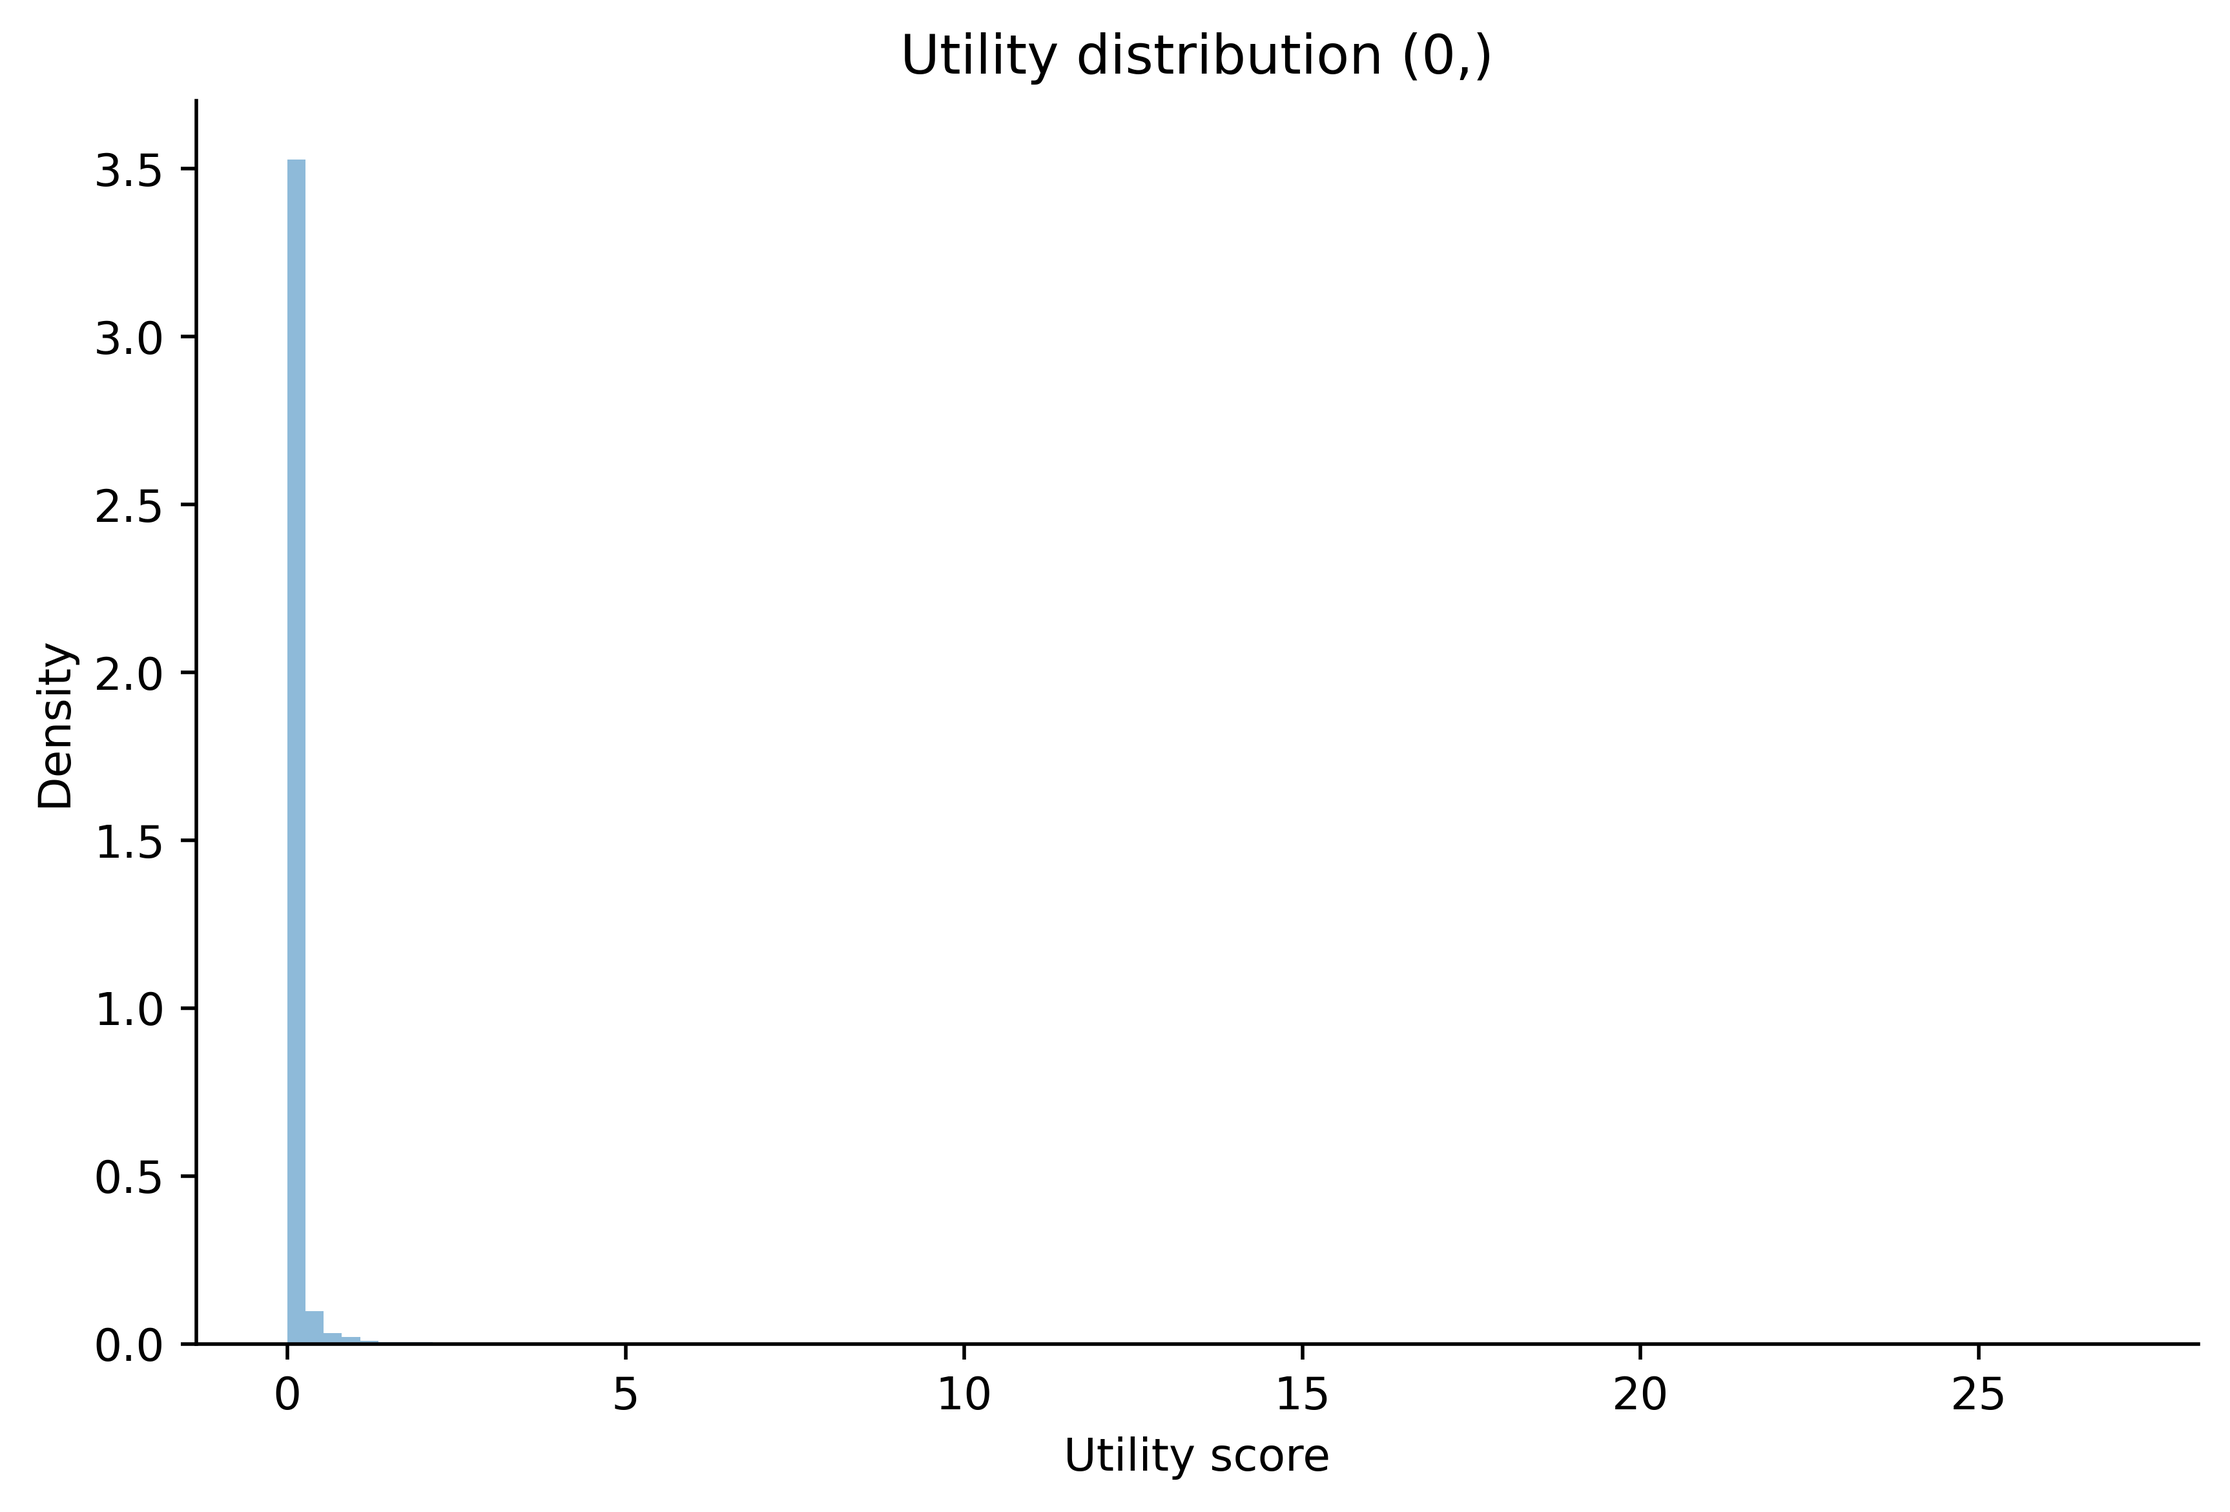
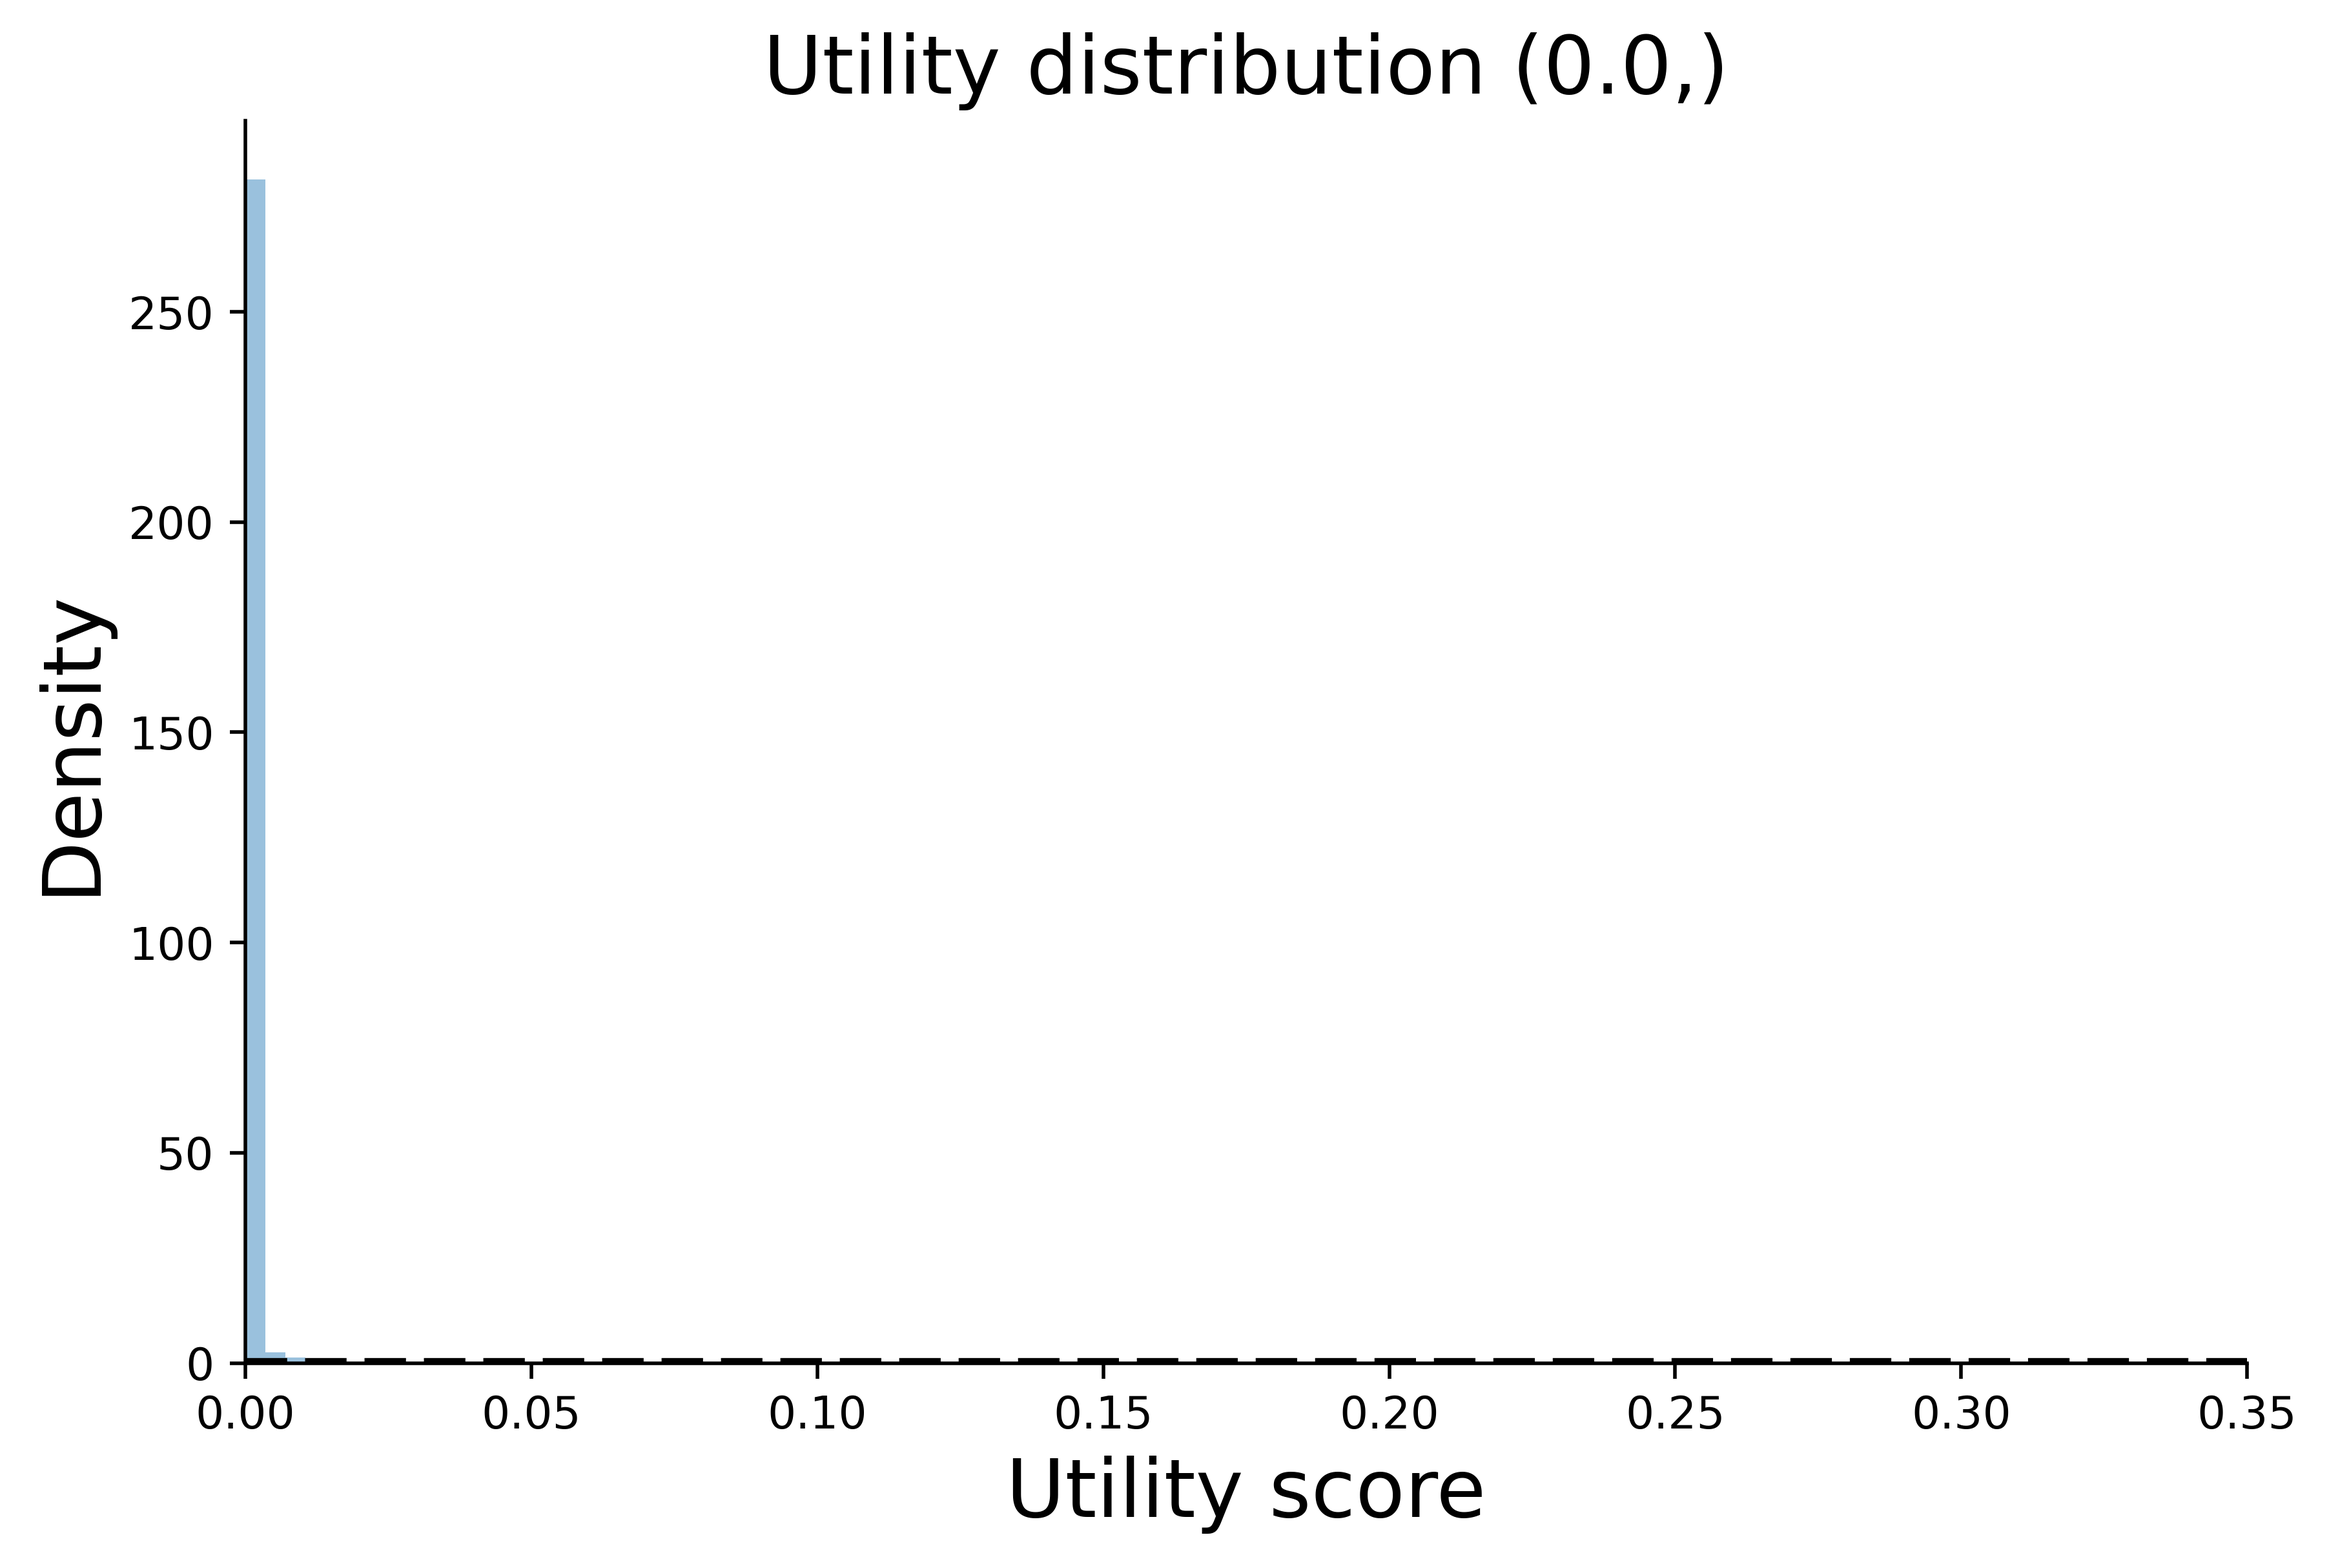
revers kl div and shift power law

Changed region(s): [[0.0, 0.0935, 0.9916, 0.9979], [0.3099, 0.0, 0.7437, 0.0624], [0.8677, 0.9043, 0.8986, 0.9355]]

diff --git a/lop/algos/bp_kl_div.py b/lop/algos/bp_kl_div.py
@@ -1,6 +1,7 @@
 import numpy as np
 import torch
 import torch.nn.functional as F
+from matplotlib import pyplot as plt
 from torch import optim
 
 from lop.algos.gnt import GnT
@@ -28,7 +29,7 @@ class BackpropKL(object):
         self.bins = 100
         self.latest_loss = None
         self.latest_kl = None
-
+        self.latest_util = None
         # define the optimizer
         if opt == 'sgd':
             self.opt = optim.SGD(self.net.parameters(), lr=step_size, weight_decay=weight_decay, momentum=momentum)
@@ -68,17 +69,22 @@ class BackpropKL(object):
         # histogram bin centers
         points = torch.linspace(
            0.0,
-           1.0,
+            1.0,
             self.bins + 1,
             device=self.device
         )
 
         centers = (points[:-1] + points[1:]) / 2
 
-        # target power law P
         # TODO: look into computing the integral over the bin
-        p = centers ** (self.power_law_alpha)
+
+        # target power law P
+        p = (centers + 0.5) ** self.power_law_alpha
         p = p / p.sum()
+
+        # plt.plot(centers.cpu().numpy(), p.cpu().numpy())
+        # plt.show()
+        # plt.close()
 
         return p
 
@@ -86,12 +92,8 @@ class BackpropKL(object):
         return torch.stack(array_of_torch_tensors)
 
     def utility_powerlaw_kl(self, utilities, bandwidth=0.01, eps=1e-8):
-
-        # flatten utilities
-        u = utilities.flatten()
-
-        # avoid division by 0
-        u += eps
+        # flatten utilities and avoid division by 0 (out of place)
+        u = utilities.flatten() + eps
 
         # scale-free
         u = u / u.sum()
@@ -104,15 +106,7 @@ class BackpropKL(object):
             device=u.device
         )
 
-        # print("shape x: ", x.shape)
-        # print("shape u: ", u.shape)
-        # print("x: ", x[:, None])
-        # print("u: ", u[None, :])
-        # Pairwise distances
-        # shape: (num_points, num_utilities)
         diff = x[:, None] - u[None, :]
-
-        # print("shape diff: ", diff.shape)
 
         # TODO: look into how to speed up KDE computation
 
@@ -125,11 +119,10 @@ class BackpropKL(object):
         # Normalize to obtain a discrete probability distribution
         q = q / (q.sum() + eps)
 
-
         p = self.target_power_law
 
         # Forward `KL(P || Q)
-        kl = torch.sum(p * (torch.log(p+eps) - torch.log(q+eps)))
+        kl = torch.sum(q * (torch.log(q+eps) - torch.log(p+eps)))
 
         #print("kl: ", kl)
         return kl
@@ -159,9 +152,6 @@ class BackpropKL(object):
             util_kl = self.utility_powerlaw_kl(self.util)
             self.latest_kl = util_kl.detach()
 
-            #print(self.util)
-            #print(self.util.is_leaf and not self.util.requires_grad)
-            #print(util_kl.is_leaf and not util_kl.requires_grad)
             loss = loss + self.kl_div_scale * util_kl
 
 
@@ -169,8 +159,8 @@ class BackpropKL(object):
         loss.backward()
         self.opt.step()
 
-        # Detach utils
-        self.util = self.util.detach()
+        # Detach utils for logging
+        self.latest_util = self.util.detach()
 
         if self.to_perturb:
             self.perturb()

diff --git a/lop/utils/plot_online_performance.py b/lop/utils/plot_online_performance.py
@@ -16,42 +16,66 @@ def generate_utility_histogram(
         filename='utility_histogram.png',
         svg=False,
 ):
+    fig, ax = plt.subplots(figsize=(8, 5))
 
-    fig, ax = plt.subplots(figsize=(8,5))
+    xmin = 1e-6  # avoid x=0 singularity
+    xmax = 0.35
 
+    # Plot histograms
     for idx, values in enumerate(distributions):
+        label = labels[idx] if labels is not None else None
 
-        label = ''
-        if labels is not None:
-            label = labels[idx]
-
-        # plt.hist(
-        #     values,
-        #     bins=bins,
-        #     density=True,
-        #     alpha=0.5,
-        #     label=label
-        # )
-
-        plt.hist(
+        ax.hist(
             values,
             bins=bins,
             density=True,
-            alpha=0.5
+            range=(0.0, xmax),
+            alpha=0.45,
+            label=label,
         )
 
+    # ------------------------------------------------------------------
+    # Overlay normalized power law
+    # ------------------------------------------------------------------
+    x = np.linspace(xmin , xmax, 1000)
+    power_law_alpha = -3
+
+    shift = 0.5
+
+    # Evaluate the power law at shifted coordinates
+    p = (x + shift) ** power_law_alpha
+
+
+
+    # Normalize over the plotted x-range
+    p /= np.trapz(p, x)
+
+    p /= p.sum()
+
+    ax.plot(
+        x,
+        p,
+        color='black',
+        linewidth=2.5,
+        linestyle='--',
+        label=rf'Power law ($\alpha={power_law_alpha}$)'
+    )
+
+    # ------------------------------------------------------------------
 
     ax.spines['top'].set_visible(False)
     ax.spines['right'].set_visible(False)
 
-    plt.xlabel(xlabel)
-    plt.ylabel(ylabel)
+    ax.set_xlim(0, xmax)
 
-    if labels:
-        plt.legend()
+    ax.set_xlabel(xlabel, fontsize=fontsize)
+    ax.set_ylabel(ylabel, fontsize=fontsize)
 
-    if caption:
-        plt.title(caption)
+    if labels is not None:
+        ax.legend(fontsize=fontsize - 2)
+
+    if caption is not None:
+        ax.set_title(caption, fontsize=fontsize)
 
     plt.savefig(filename, bbox_inches='tight', dpi=500)
     plt.close()

diff --git a/lop/permuted_mnist/plots/bp_metrics.py b/lop/permuted_mnist/plots/bp_metrics.py
@@ -27,6 +27,14 @@ def add_cfg_utility_histogram(
 
         utils = data['utils']
 
+        print(utils)
+
+        # Normalize util scores
+        utils = utils / utils.sum()
+
+        # Normalize util scores to the maximum
+        # utils = utils / utils.max()
+
 
         # utils:
         # (layers, neurons)
@@ -115,15 +123,16 @@ def main(arguments):
         return
 
     performances = []
-    m = {'weight': 30*1000, 'accuracy': 30*1000, 'dead_neurons': 1, 'effective_rank': 1, 'loss': 30*1000, 'kl_div': 30*1000}[metric]
+    iterations = 30*1000
+    m = {'weight': iterations, 'accuracy': iterations, 'dead_neurons': 1, 'effective_rank': 1, 'loss': iterations, 'kl_div': iterations}[metric]
     num_runs = params['num_runs']
 
     indices = range(len(param_settings))
     for i in indices:
         performances.append(add_cfg_performance(cfg=cfg_file, setting_idx=i, m=m, num_runs=num_runs, metric=metric))
 
-    yticks = {'weight': [0, 0.02, 0.04, 0.06, 0.08, 0.10], 'accuracy': [10, 20, 30, 40, 50, 60, 70, 80, 90, 100],
-             'dead_neurons': [0, 10, 20, 30], 'effective_rank': [0, 10, 20, 30, 40, 50], 'loss': [0.0,0.1, 0.2, 0.3, 0.4 , 0.5], 'kl_div': [0.0, 0.5, 1.0, 2.0, 2.5, 3.0, 3.5, 4.0, 4.5, 5.0, 5.5, 6.0]}[metric]
+    yticks = {'weight': [0, 0.02, 0.04, 0.06, 0.08, 0.10], 'accuracy': [88, 90, 92, 94, 96, 98, 100],
+             'dead_neurons': [0, 10, 20, 30], 'effective_rank': [0, 10, 20, 30, 40, 50], 'loss': [0.0,0.1, 0.2, 0.3, 0.4 , 0.5], 'kl_div': [7.0, 8.0, 9.0, 10.0, 11.0, 12.0]}[metric]
     # yticks = {'weight': [0, 0.02, 0.04, 0.06, 0.08, 0.10], 'accuracy': [88, 90, 92, 94, 96],
     #            'dead_neurons': [0, 10, 20, 30], 'effective_rank': [0, 10, 20, 30, 40, 50]}[metric]
     generate_online_performance_plot(

diff --git a/lop/permuted_mnist/online_expr.py b/lop/permuted_mnist/online_expr.py
@@ -30,7 +30,6 @@ def online_expr(params: {}):
     dev = 'cpu'
     to_log = False
     num_features = 2000
-    change_after = 5 * 6000
     to_perturb = False
     perturb_scale = 0.1
     num_hidden_layers = 1
@@ -78,6 +77,7 @@ def online_expr(params: {}):
 
     classes_per_task = 5
     images_per_class = 6000
+    change_after = classes_per_task * images_per_class
     input_size = 784
     num_hidden_layers = num_hidden_layers
     net = DeepFFNN(input_size=input_size, num_features=num_features, num_outputs=classes_per_task,
@@ -193,9 +193,9 @@ def online_expr(params: {}):
             batch_x = x[start_idx: start_idx+mini_batch_size]
             batch_y = y[start_idx: start_idx+mini_batch_size]
 
-            if iter % 1000 == 0:
-                print(torch.cuda.memory_summary())
-                print(len(gc.get_objects()))
+            # if iter % 1000 == 0:
+            #     print(torch.cuda.memory_summary())
+            #     print(len(gc.get_objects()))
 
             # train the network
             loss, network_output = learner.learn(x=batch_x, target=batch_y)
@@ -206,12 +206,12 @@ def online_expr(params: {}):
             # log accuracy
             with torch.no_grad():
                 accuracies[iter] = accuracy(softmax(network_output, dim=1), batch_y).cpu()
-                losses[iter] = learner.latest_loss.cpu()
 
             # log uitl scores
             if agent_type in ['bp_kl_div']:
-                utils = learner.util.cpu()
+                utils = learner.latest_util.cpu()
                 kl_divs[iter] = learner.latest_kl.cpu()
+                losses[iter] = learner.latest_loss.cpu()
 
             iter += 1
 

diff --git a/lop/algos/gnt.py b/lop/algos/gnt.py
@@ -87,7 +87,8 @@ class GnT(object):
     def update_utility(self, layer_idx=0, features=None, next_features=None):
         # Keep gradient to regularize loss
         #with torch.no_grad():
-            self.util[layer_idx] *= self.decay_rate
+            # Detach before any further computation
+            self.util[layer_idx] = self.util[layer_idx].detach() * self.decay_rate
             """
             Adam-style bias correction
             """
@@ -123,7 +124,7 @@ class GnT(object):
                 new_util = 0
 
             # Detach past utility scores
-            self.util[layer_idx] = self.util[layer_idx].detach() + (1 - self.decay_rate) * new_util
+            self.util[layer_idx] = self.util[layer_idx] + (1 - self.decay_rate) * new_util
 
             """
             Adam-style bias correction
